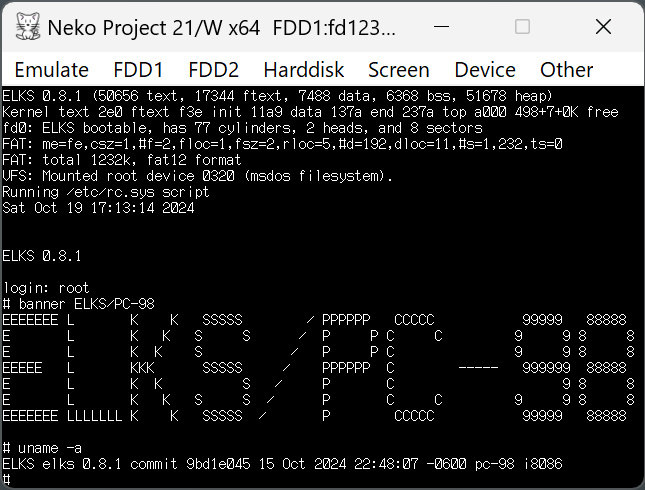
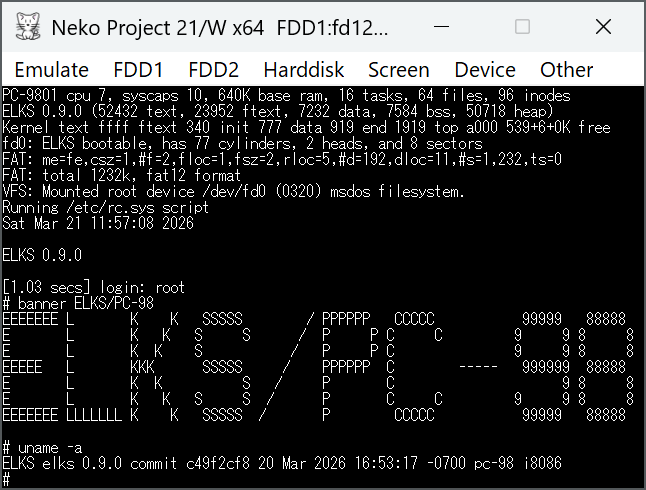
Add files via upload

diff --git a/index.html b/index.html
@@ -10,7 +10,7 @@
   <body>
     <h1><font color="chocolate">ELKS PC-98<br>紹介ページ</font></h1>
     <p style="font-size:smaller;">
-      Last Update 2025/12/29<br>
+      Last Update 2026/3/21<br>
     </p>
     <p>
       　このページはEmbeddable Linux Kernel Subset (ELKS)のPC-9801/PC-9821版の使用法や開発状況を紹介していくページです。<br>
@@ -35,13 +35,18 @@
     <h2>イメージ</h2>
     <p>
       フロッピー向けのイメージは以下から入手できます。<br>
-      2024.10の最新リリースは0.8.1です。<br>
-      PC-98の2HD/2DD共通ドライブで720KB 2DDのマウントができるようになりました。<br>
+      2026.03の最新リリースは0.9.0です。<br>
+      <font color="blue">
+      Nano-Xでwindow managerによるGUIが使えるようになりました。<br>
+      PC-98向けの1.200MBイメージの提供が開始されました。<br>
+      </font>
       <div style="margin-left:20px;">
-        ELKS v0.8.1 <a href="https://github.com/ghaerr/elks/releases/tag/v0.8.1"> https://github.com/ghaerr/elks/releases/tag/v0.8.1 </a><br>
-        Assetsのところにあるfd1232-pc98.img, fd1440-pc98.imgがPC-98向けになります。<br>
+        ELKS v0.9.0 <a href="https://github.com/ghaerr/elks/releases/tag/v0.9.0"> https://github.com/ghaerr/elks/releases/tag/v0.9.0 </a><br>
+        Assetsのところにあるfd1232-pc98.img, fd1440-pc98.img, fd1200-pc98.imgがPC-98向けになります。<br>
+        イメージによって含まれるアプリは幾らか異なります。<br>
         fd1232-pc98.img : 1.232MB 2HD向け (3.5インチ/5.25インチ)<br>
-        fd1440-pc98.img : 1.440MB PC-9801BX以降の3モードドライブ等で使用可 (3.5インチ)<br><br>
+        fd1440-pc98.img : 1.440MB PC-9801BX以降の3モードドライブ等で使用可 (3.5インチ)<br>
+        fd1200-pc98.img : 1.200MB 2HC向け 後述のハードディスクへのインストールで使用可 (3.5インチ/5.25インチ)<br>
         開発版で最新のcommitでビルドされたものはActionsからcommitメッセージをクリックすると入手できます。<br>
         こちらは現状PC-98版はfd1232.imgのみになります。<br>
         <a href="https://github.com/ghaerr/elks/actions"> https://github.com/ghaerr/elks/actions</a><br><br>
@@ -62,8 +67,8 @@
       FDI形式に変換すればFlashFloppy化したGotek(ハードウェアFloppyエミュレータ)でも動きました。<br><br>
 
       <font color="blue">
-      v0.9以降のリリースではc86コンパイラなど<br>
-      大きなアプリはハードディスクイメージで提供されることになるのかもしれません。<br>
+      v0.9以降のリリースではC86コンパイラなど<br>
+      大きなアプリはハードディスクイメージで提供されることになりました。<br>
       hbr32mbr-fat.imgはIBM PC向けのMBR形式のイメージですが、ファイルを取り出せばPC-98で使えるものもあります。<br>
       私はイメージのファイルの出し入れにはNDを使用しています。<br>
       また、同作者様の仮想マシンハードディスクイメージ変換ツールNHC web版で<br>
@@ -119,15 +124,11 @@
       <dl>
         <dt>ハードディスクへのインストール</dt>
         <dd>あらかじめDOS等でPC-98のパーティションを作成し、FATでフォーマットしておく必要がありますが、</dd>
-        <dd>fd1440-pc98.imgのフロッピーディスクを用いることでハードディスクにインストールできます。</dd>
+        <dd><font color="blue">fd1200-pc98.img、またはfd1440-pc98.imgのフロッピーディスクを用いることでハードディスクにインストールできます。</font></dd>
         <dd>HDD aドライブの第1パーティションにインストールする場合</dd>
         <dd>sys /dev/hda1</dd>
         <dd>誤って意図しないパーティションにインストールしないようご注意ください。</dd>
         <dd><font color="blue">※注意※</font>fd1232-pc98.imgはブートコードが異なるのでこの方法ではインストールできません。</dd>
-        <dd>fd1440/hd向けのブートコードのファイルを用意してmakebootを行う必要があります。必要な方は連絡下さい。</dd>
-        <font color="blue">
-        <dd>v0.9からはPC-98向けのfd1200も提供され、これを用いてもインストールできるようになる予定です。</dd>
-        </font>
         <dd>
         <dt>MINIXファイルシステム</dt>
         <dd>64MBまでのMINIXファイルシステムもマウントできます。</dd>
@@ -150,14 +151,14 @@
         <dd>Dさんが3 modeドライブでの確認を行ってくださいました。ありがとうございます。</dd>
         <dd><a href="https://twitter.com/drachen6jp/status/1740742358696952218"> PC-9801BXでの2DDと1.44MB</a></dd>
         <font color="blue">
-        <dd>v0.9からは1.200MB 2HCもmountできるようになる予定です。(こちらもDさん、ご協力ありがとうございます。)</dd>
+        <dd>v0.9からは1.200MB 2HCもmountできるようになりました。(こちらもDさん、ご協力ありがとうございます。)</dd>
         </font>
         <dt>UMB</dt>
         <dd>何らかの方法でUMBにメモリを置くことができればdisk buffer等に使えるようです。</dd>
         <dd><a href="https://github.com/ghaerr/elks/pull/1590#issuecomment-1723503880"> UMBでのdisk buffer</a></dd>
         <font color="blue">
         <dt>XMS</dt>
-        <dd>v0.9からkernelのHMAの配置やディスクバッファのXMSの配置、XMSのRamdiskへの利用等ができるようになる予定ですが、</dd>
+        <dd>v0.9からkernelのHMAの配置やディスクバッファのXMSの配置、XMSのRamdiskへの利用等ができるようになりましたが、</dd>
         <dd>PC-98の構成によっては問題が出るかもしれません。</dd>
         </font>
         <dd><a href="https://github.com/ghaerr/elks/issues/2398"> issue #2398</a></dd>
@@ -166,6 +167,9 @@
         <dd>xms=onを#でコメントアウト
         <dd>HMAをdisableにする場合</dd>
         <dd>hma=kernelを#でコメントアウト</dd>
+        <font color="blue">
+        <dd>defaultではhma=kernelのみ有効になっています。</dd>
+        </font>
         <dt>ユーザーの追加</dt>
         <dd>必要ないかもしれませんが/etc/passwdに追加することでユーザーは追加できます。</dd>
         <dd>FATの場合、ユーザーの行き来で/tmpが書き込めなくなってしまうのを避けるため</dd>
@@ -202,6 +206,7 @@
     <h3>- screen</h3>
     ELKSはマルチタスクOSであるためバックグランドで処理を流せますが現状fg, bgのコマンドがありません。<br>
     2つのフォアグランドの処理を切り替えたい場合はscreenで別スクリーンを立ち上げてフォアグランドで流せば切り替えられます。<br>
+    <font color="blue">(v0.9からctrl-zで止めたものをfgで再開できるようにはなりました。)</font><br>
     screen<br>
     Ctrl-a, cで別スクリーン<br>
     Ctrl-a, pでスクリーン切り替え<br>
@@ -209,24 +214,43 @@
     <h3>- nano-X</h3>
     nano-Xによる描画ドライバのPC-98版が入りました。<br>
     PC-98向けマウスドライバも追加しました。<br>
-    以下のnano-XアプリをPC-98向けイメージには入れています。
+    <font color="blue">
+    v0.9からwindow managerで複数アプリが同時に動くようになりました。<br>
+    nxstartとnxdsktopの2種類があります。<br>
     <dl>
-      <dt>nxworld</dt>
-      <dd>世界地図。マウスのドラッグで拡大。右クリックで緯度経度表示。ESCで終了。</dd>
-      <dt>nxlandmine</dt>
+      <dt>nxstart</dt>
+      <dd>fd1232-pc98.img, fd1440-pc98.img, fd1200-pc98.imgに含まれます。nxstartで起動できます。</dd>
+      <dd>右側に出てくるメニューから選択するとアプリを起動できます。全てのアプリを閉じてメニューのxを押すと終了です。</dd>
+      <dd><img src="ELKS_nxstart.png"></dd>
+      <dt>nxdsktop</dt>
+      <dd>fd1232-pc98.imgに含まれます。nxdsktopで起動できます。左下のStartからメニューが出ます。</dd>
+      <dd>PC-98ではモノクロ表示のみ対応ですが、小さなjpegファイルの表示ができます。</dd>
+      <dd><img src="ELKS_nxdsktop.png"></dd>
+    </dl>
+    </font>
+    <dl>
+      <dt>nxmine</dt>
       <dd>マインゲーム。マウス必須。某ゲームと異なり開いているところに隣接したところからしか開けません。一度爆発しても続行。</dd>
-      <dd>(ハードディスクにsysでインストールすると実行バイナリ名が8文字nxlandmiになるかも)</dd>
+      <dd>(fd1232-pc98.imgに含まれます。)</dd>
       <dt>nxtetris</dt>
       <dd>ブロックゲーム。マウス無しでも遊べます。nキーでnewゲーム。s, d, j, k, spで移動。ESCで終了。</dd>
       <dt>nxterm</dt>
-      <dd>ターミナルのデモ。</dd>
+      <dd>ターミナル。</dd>
+      <dt>nxcalc</dt>
+      <dd>電卓。</dd>
     </dl>
+    <font color="blue">
+    nxworldはv0.9からディスク容量の都合上、PC-98向けフロッピーイメージには含まれなくなりました。</br></br>
+
+    Nano-XはDebug出力のためdefaultではシリアルポートを占有します。<br>
+    PC-98では通常シリアルポートが一つしかないと思いますのでNano-Xを起動中にシリアルポートを使用する場合は<br>
+    /bootoptsのDEBUG_PORT=noneのコメントアウトを外して再起動するか、<br>
+    export DEBUG_PORT=noneで環境変数を設定してからNano-Xを起動してください。<br><br>
+    </font>
+
     以下はPC-9801BXでnxterm/nxclock/nxdemo/nxworld/nxlandmineを実行した動画です。<br>
     <a href="https://twitter.com/i/status/1564683753254924288"> PC-9801BXでのnano-Xアプリ描画</a><br>
     <a href="https://twitter.com/tyama50/status/1639531608209498112"> PC-9801BXでマウス動作</a><br><br>
-    <font color="blue">
-    v0.9からwindow managerで複数アプリが同時に動くようになる予定です。<br>
-    </font>
     <a href="https://x.com/tyama50/status/1964511050847691242"> PC-9801RXでwindow manager</a><br>
     <h3>- シリアルコンソール</h3>
     /etc/inittabの先頭行を以下のように変更することでloginがシリアルポートにも出力されるようになります。<br>
@@ -243,7 +267,7 @@
     シリアルポートのterminalです。<br>
     現状、PC-98版はシリアルポートを一つしかサポートしていないのでシリアルコンソールと併用できません。<br>
     example) miniterm -s 1200 (1200bpsでterminalを開く)<br>
-    ~.で終了です。<br>
+    ~.で終了です。(USBのキーボード変換を使っている場合やエミュレータでは~はシフト+@のようです)<br>
     シリアルポートは8bit, パリティなし, ストップ 1bit, フロー制御なしのみ対応です。<br>
     <h3>- beep</h3>
     ビープ音が鳴らせます。(0.8.0で追加)<br>
@@ -278,19 +302,55 @@
     -C [1-7] 色を設定<br>
     -t 12時間formatで表示<br>
     -u UTC時間を表示<br>
+    <font color="blue">
+    <h3>- ekermit</h3>
+    E-kermitの移植を行いました。<br>
+    fd1440-pc98.imgに含まれます。<br>
+    Windows上のTera TermやDebian上のckermit等からシリアルポートを用いてファイルの送受信ができます。<br>
+    </font>
+    <a href="https://github.com/ghaerr/elks/tree/master/elkscmd/ekermit#readme"> E-kermit Readme</a><br>
+    <a href="https://github.com/ghaerr/elks/discussions/2495"> Discussions #2495</a><br>
+    <a href="https://github.com/ghaerr/elks/pull/2554"> Pull Request #2554</a><br><br>
+    <font color="blue">
+    Tera Termから送信を行う場合はekermit -rを実施後、Tera Termの転送 > Kermit > 送信を行ってください。<br>
+    Tera Termが受信を行う場合はTera Termの転送 > Kermit > 受信を行ってからekermitの送信を行ってください。<br><br>
+    Debianのckermitでは以下の設定を行うことで私は転送ができるようになりました。<br>
+    set send packet-length 80 <br>
+    set window-size 1 <br>
+    set flow-control none <br>
+    set carrier-watch off <br>
+    </font>
+    <font color="blue">
+    <h3>- C86 Native Cコンパイラ</h3>
+    v0.9からハードディスクイメージに含まれるようになりました。<br>
+    前述のようにhbr32mbr-fat.imgはIBM PC向けのMBR形式のイメージですが、ファイルを取り出すか<br>
+    マウントを行いPathを通せばPC-98でも使えます。<br>
+    ELKSのkernelやNano-Xのコンパイルはできませんが、小さなCUIアプリなら作れます。<br>
+    C86コンパイラは上記イメージの/usr以下のbin, include, lib, srcに入っています。<br>
+    srcにはサンプルが入っています。以下で試せます。<br>
+    mount /dev/hda1 /mnt<br>
+    export PATH=$PATH:/mnt/usr/bin<br>
+    cd /mnt/usr/src<br>
+    Makefile中のincludeやlibのPathを直す。<br>
+    make<br>
+    </font>
     <h2>開発中</h2>
     <p>
     <h3>- ELKSmoria</h3>
     GPL3のローグライクゲームであるUmoria 5.6を移植中です。<br>
-    ELKSのアプリはcode sizeが128KB, data segment sizeが64KBまでという制約があるため<br>
+    メモリの使用量を減らすため<br>
     Umoria 5.6のコードを元にかなり大胆に機能を制限したものになります。<br>
     <a href="https://github.com/ghaerr/elks/discussions/1505"> Ideas to port UMoria (Roguelike game) with elks curses</a><br><br>
     <a href="https://github.com/tyama501/ELKSmoria"> ELKSmoriaリポジトリ</a><br><br>
     Releasesに実行ファイルも置いています。<br>
     <a href="https://github.com/tyama501/ELKSmoria/releases"> Releases</a><br><br>
     <a href="https://twitter.com/tyama50/status/1624438452195565568"> テストプレイ動画</a><br><br>
+    <font color="blue">
     Open Watcomでアプリ開発を行い、0.8.0以降で実行すれば<br>
-    より大きなコードも可能なので今後開発環境を移行するかもしれません。<br>
+    より大きなコードも可能なので開発環境を移行しました。<br><br>
+
+    v0.9からハードディスクイメージに含まれるようになりました。<br>
+    </font>
     </p>
     <p>
     <h3>- 漢字表示</h3>
@@ -316,16 +376,6 @@
     (現状ではコンソールは80x25ライン, グラフィックは未対応)<br>
     <a href="https://twitter.com/drachen6jp/status/1655554176812978176"> ハイレゾ機での起動</a><br>
     メモリは768KB認識できるそうです。<br>
-    </p>
-    </p>
-    <font color="blue">
-    <h3>- シリアルポートでのファイル転送</h3>
-    E-kermitの移植を行いました。<br>
-    Windows上のTeraTerm等からファイルの送受信ができます。<br>
-    </font>
-    <a href="https://github.com/ghaerr/elks/discussions/2495"> Discussions #2495</a><br>
-    <a href="https://github.com/ghaerr/elks/pull/2554"> Pull Request #2554</a><br>
-    <a href="https://github.com/ghaerr/elks/tree/master/elkscmd/ekermit#readme"> E-kermit Readme</a><br>
     </p>
     <h2>開発予定</h2>
     - 漢字入力<br>
